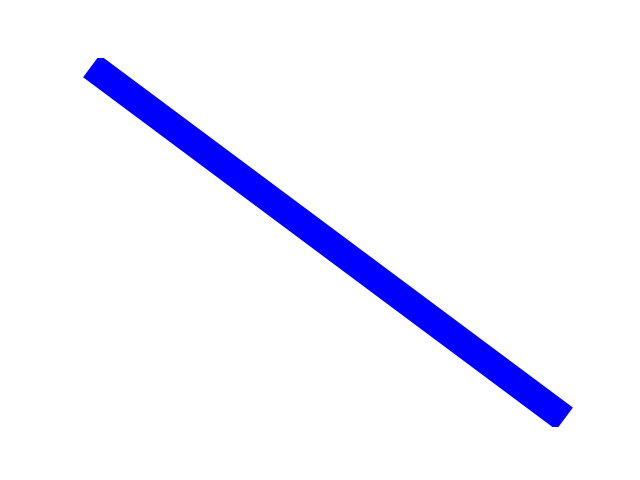
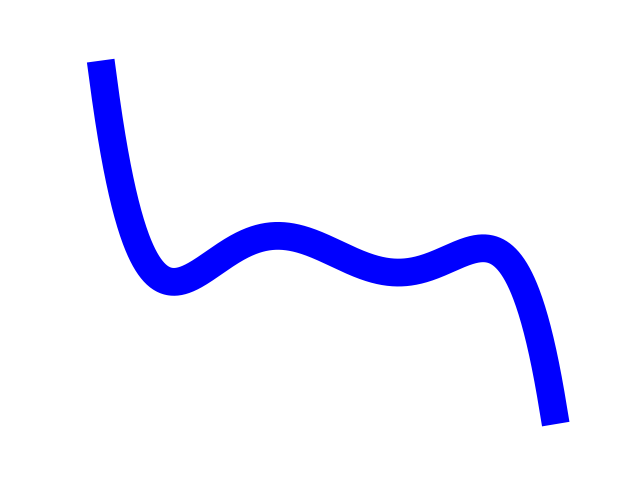
Recontruct Class

diff --git a/GraphHandler/generator.py b/GraphHandler/generator.py
@@ -1,11 +1,94 @@
 import numpy as np
 import matplotlib.pyplot as plt
+import pygame
+
 pointsX=np.linspace(0,1,1000)
-def sin_f(x):
-  return np.sin(x)        
-
 #CREATE LEAST SQUARES ANALYTICAL SOLUTION FUNCTION 
+def leftBorderDetect(img):
+  for x in range(img.shape[1]):
+    border=False
+    for y in range(img.shape[0]):
+      if(img[y][x]!=255):
+        border=True
+    if(border==True):
+      return x
+def rightBorderDetect(img):
+  for x in range(img.shape[1]):
+    rightBorder=img.shape[1]-1-x
+    border=False
+    for y in range(img.shape[0]):
+      if(img[y][rightBorder]!=255):
+        border=True
+    if(border==True):
+      return rightBorder
+def topBorderDetect(img):
+  for y in range(img.shape[0]):
+    border=False
+    for x in range(img.shape[1]):
+      if(img[y][x]!=255):
+        border=True
+    if(border==True):
+      return y
+def bottomBorderDetect(img):
+  for y in range(img.shape[0]):
+    bottomBorder=img.shape[0]-1-y
+    border=False
+    for x in range(img.shape[1]):
+      if(img[bottomBorder][x]!=255):
+        border=True
+    if(border==True):
+      return bottomBorder
 
+def convertPoints(img):
+  pX=[]
+  pY=[]
+  for x in range(img.shape[1]):
+    exist=False
+    for y in range(img.shape[0]):
+      if(img[y][x]!=255 and exist==False):
+        # print(x,y)
+        pX.append(x/img.shape[1])
+        pY.append((img.shape[0]-1-y)/img.shape[1])
+        exist=True
+
+  return pX,pY
+
+def normalization(arr):
+  minArr=min(arr)
+  scler=max(arr)-min(arr)
+  afr=[0]*len(arr)
+  for i in range(len(arr)):
+    afr[i]=(arr[i]-minArr)/scler
+  return afr
+def fitCenterY(pY,distance):
+  cY=[0]*len(pY)
+  for i in range(len(pY)):
+    cY[i]=pY[i]+distance
+  return cY
+
+def fitScaleY(pY,TOP,BOTTOM):
+  cY=[0]*len(pY)
+  scaleRange=TOP-BOTTOM
+  yRange=max(pY)-min(pY)
+  for i in range(len(pY)):
+    cY[i]=pY[i]*(scaleRange/yRange)
+  return cY
+def loss(pX,pY,yBottom,yTop,RANK,W):
+  expY=[0]*len(pY)
+  LOSS=0
+  for j in range(len(pY)):
+    for i in range(RANK):
+      expY[j] += W[i][0] * pX[j]**i
+    
+    LOSS+=(( pY[j] - expY[j] )**2)/(yTop-yBottom)**2
+  # plt.plot(pX,expY)
+  # plt.show()
+  return LOSS/len(pX)
+def get_pixel_data(surf, top_left, bottom_right):
+    w = bottom_right[0] - top_left[0]
+    h = bottom_right[1] - top_left[1]
+    sub_surface = surf.subsurface(pygame.Rect(*top_left, w, h))
+    return sub_surface
 def CreateGraph(rank,outputName):
   #CREATE MATRIX WITH RANK-ORDER
   X=np.random.rand(100,1)
@@ -38,5 +121,80 @@ def CreateGraph(rank,outputName):
   plt.savefig(outputName)
   plt.clf()
   return W,pointsY
+
+
+class Graph():
+  def __init__(self,outputName):
+      self.outputName=outputName
+      self.pointsX=np.linspace(0,1,1000)
+  def CreateGraph(self,rank):
+  #CREATE MATRIX WITH RANK-ORDER
+    X=np.random.rand(100,1)
+    Y=np.random.rand(100,1)
+    ADup=np.zeros_like(X)
+    RANK=rank+1
+    self.RANK=RANK
+    A=np.zeros_like(X)
+    for r in range(RANK):
+      for i in range(len(X)):
+        ADup[i]=X[i]**r
+      A=np.concatenate((A,ADup),axis=1)
+    A=np.delete(A,0,axis=1)
+  # print(A)
+  #CALCULATOR COEF WITH FORMULA
+    Z1=np.matmul(A.T,A)             #A.T*A
+    Z2=np.linalg.inv(Z1)            #(A.T*A)^-1
+    Z3=np.matmul(A.T,Y)             #A.T*Y
+    W=np.matmul(Z2,Z3)              #((A.T*A)^-1)*A.T*Y
+    print(W)
+    pointsY=0
+
+  
+  #Y init from 1000 equidistant X point using training coefficient      
+    for i in range(RANK):
+      pointsY+=W[i][0]*pointsX**i
+  #DRAWING
+    plt.plot(pointsX,pointsY,'blue',linewidth=20)
+
+    plt.axis('off')
+    plt.savefig(self.outputName)
+    plt.clf()
+    self.W=W
+    self.pointsY=pointsY
+    return W,pointsY
+
+  def Proccess(self,line):
+    npAr=np.array(line)
+    print('shape:',npAr.shape)
+    afx=normalization(npAr[:,0])
+    afy=normalization(npAr[:,1])
+
+    Ycenter=self.pointsY[500]
+    pointsX=np.linspace(0,1,1000)
+
+    poiX=afx
+    poiY=np.array([y*-1 for y in afy])
+
+    print('loss before scale',loss(poiX,poiY,min(self.pointsY),max(self.pointsY),self.RANK,self.W))
+
+
+    poiY=fitScaleY(poiY,max(self.pointsY),min(self.pointsY))
+
+    print('loss after scale',loss(poiX,poiY,min(self.pointsY),max(self.pointsY),self.RANK,self.W))
+
+
+    centerDistanceY=Ycenter-poiY[len(poiY)//2]
+    print('distance before fit center',centerDistanceY)
+    poiY=fitCenterY(poiY,centerDistanceY) #fit center
+    centerDistanceY=Ycenter-poiY[len(poiY)//2]
+    print('distance after fit center',centerDistanceY)
+    print('loss after fit center',loss(poiX,poiY,min(self.pointsY),max(self.pointsY),self.RANK,self.W))
+    print('limit',min(self.pointsY),max(self.pointsY))
+    if(loss(poiX,poiY,min(self.pointsY),max(self.pointsY),self.RANK,self.W)<0.1):
+        print('Correct')
+        return True
+    else:
+        print('wrong')
+        return False
 
 

diff --git a/ptouch.py b/ptouch.py
@@ -96,7 +96,9 @@ pygame.display.set_caption("ptouch")
 # obj=pygame.transform.scale(obj,(objwidth ,objheight))
 
 RANK=1
-W,yDraw=generator.CreateGraph(RANK,'dothi.png')
+grap=generator.Graph('dothi.png')
+grap.CreateGraph(RANK)
+# W,yDraw=generator.CreateGraph(RANK,'dothi.png')
 dothi=pygame.image.load('dothi.png').convert_alpha()
 hinhdothi=pygame.transform.scale(dothi,(100 ,100)).convert_alpha()
 
@@ -154,7 +156,7 @@ class Enemy(pygame.sprite.Sprite):
         self.alive=True
         
 
-    def move(self,W,yDraw,RANK,line,playerDraw):
+    def move(self):
             global LIFE
             self.rect.move_ip(0,SPEED)
             if (self.rect.bottom >= (SCREEN_HEIGHT-75)):
@@ -317,13 +319,14 @@ def play():
                         # print(pxarray.shape)
                         # plt.imsave('image.png',pxarray)
                         # pygame.image.save(pxarray,'input.png')
-                        PredictResult=imagePredict.Proccess(W,yDraw,RANK,line)
-                        
+                        # PredictResult=imagePredict.Proccess(W,yDraw,RANK,line)
+                        PredictResult=grap.Proccess(line)
                         line=[]
                         if PredictResult:
                             LIFE+=1
                             RANK=(LIFE+4)//4
-                            W,yDraw=generator.CreateGraph(RANK,'dothi.png')
+                            grap.CreateGraph(RANK)
+                            # W,yDraw=generator.CreateGraph(RANK,'dothi.png')
                             dothi=pygame.image.load('dothi.png').convert_alpha()
                             # obj=pygame.transform.scale(dothi,(objwidth ,objheight)).convert_alpha()
                             hinhdothi=pygame.transform.scale(dothi,(100 ,100)).convert_alpha()               
@@ -359,7 +362,7 @@ def play():
         # conclide=False
         for entity in enemies:
             DISPLAYSURF.blit(entity.image, entity.rect)
-            echk=entity.move(W,yDraw,RANK,line,playerDraw)
+            echk=entity.move()
             # if echk:
             #     conclide=True
         # if conclide:
@@ -1285,7 +1288,7 @@ def GameOver(point):
                     global playerDraw
                     playerDraw=False
                     global W,yDraw
-                    W,yDraw=generator.CreateGraph(RANK,'dothi.png')
+                    grap.CreateGraph(RANK)
                     global hinhdothi
                     dothi=pygame.image.load('dothi.png').convert_alpha()
                     hinhdothi=pygame.transform.scale(dothi,(100 ,100)).convert_alpha()
@@ -1303,7 +1306,7 @@ def GameOver(point):
                     # global playerDraw
                     playerDraw=False
                     # global W,yDraw
-                    W,yDraw=generator.CreateGraph(RANK,'dothi.png')
+                    grap.CreateGraph(RANK)
                     # global hinhdothi
                     dothi=pygame.image.load('dothi.png').convert_alpha()
                     hinhdothi=pygame.transform.scale(dothi,(100 ,100)).convert_alpha()

diff --git a/GraphHandler/imagePredict.py b/GraphHandler/imagePredict.py
@@ -1,6 +1,5 @@
 import numpy as np
 import pygame
-from sklearn.preprocessing import StandardScaler
 def leftBorderDetect(img):
   for x in range(img.shape[1]):
     border=False
